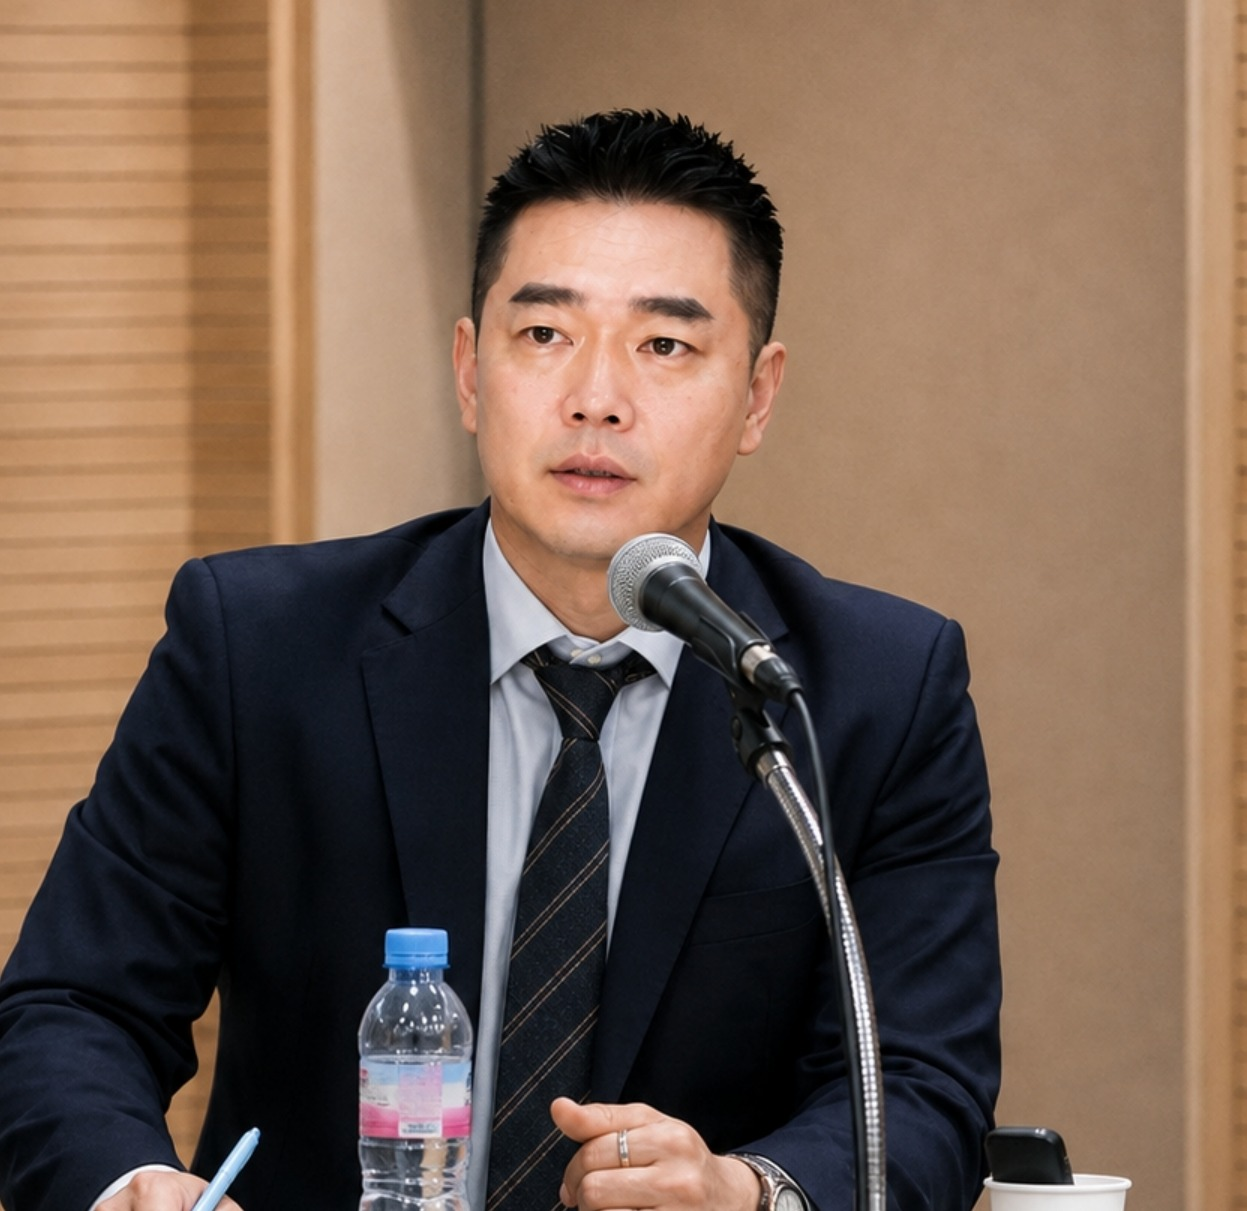
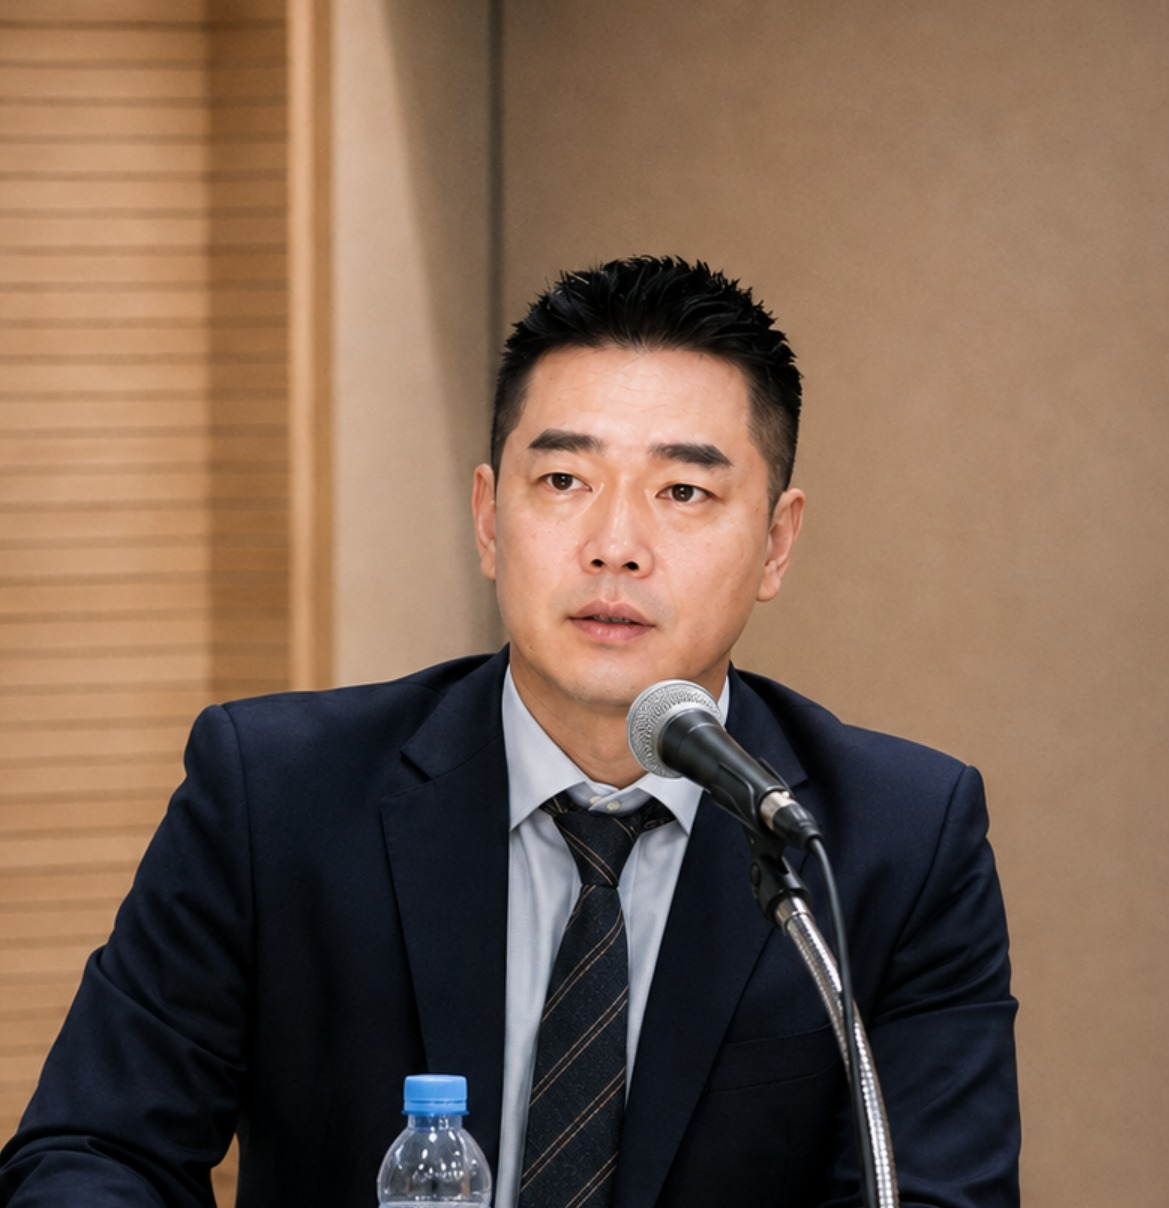
fix(gallery,notice): 공덕현대 총회 사회자 사진 재교체 (대장 지시)
jpg/notice/gongdeok_hyundai_speaker_lcw.jpg를 새 사진으로 재교체하고
공지사항·갤러리 양쪽 img src 캐시버전 갱신(?v=20260902b→c).

Claude-Session: https://claude.ai/code/session_01E8hyXFhcEuGLayqtAzFcqf

diff --git a/redevelopment/assets/data/mock-data.js b/redevelopment/assets/data/mock-data.js
@@ -236,7 +236,7 @@ const MOCK = {
       content:'<div class="nt-lead">ORDER WIN · 인천 만수주공아파트 재건축사업</div><p>㈜빛세움이 인천 만수주공아파트 재건축사업의 정비사업전문관리업자로 선정되었습니다. <strong>10,446세대 초대형 재건축 프로젝트</strong>에 빛세움이 함께합니다.</p><div class="nt-stats"><div class="nt-stat-card"><div class="nt-stat-num">10,446<span>세대</span></div><div class="nt-stat-label">계획 세대수(부대·복리시설 포함)</div></div><div class="nt-stat-card"><div class="nt-stat-num">41.9<span>만㎡</span></div><div class="nt-stat-label">인천 남동구 만수동 사업대상 면적</div></div><div class="nt-stat-card"><div class="nt-stat-num">3,259<span>명</span></div><div class="nt-stat-label">1.31 주민총회 참여 토지등소유자</div></div></div><p>만수주공아파트 재건축 추진위원회는 <strong>2026년 1월 31일</strong> 인천 남동체육관에서 주민총회를 개최하고, 정비사업의 본격적인 추진을 위한 협력업체 선정 등 주요 안건을 의결했습니다. 이날 총회에는 토지등소유자 6,264명 가운데 서면결의 3,082명, 현장 참석 177명 등 총 3,259명이 참여했습니다.</p><p>총회에서는 정비사업전문관리업자로 <strong>㈜빛세움</strong>이 선정됐으며, 설계 분야는 나우동인건축사사무소·한길종합건축사사무소엔지니어링 컨소시엄, 추정분담금 산정 및 검증 업무는 제일감정평가법인이 각각 선정됐습니다.</p><p>만수주공아파트 재건축사업은 인천광역시 남동구 만수동 13번지 일원 약 419,320㎡를 대상으로 추진되는 대규모 정비사업으로, 계획상 아파트 약 10,446세대와 부대·복리시설이 들어서는 초대형 프로젝트입니다.</p><div class="nt-divider"></div><p>빛세움은 그동안 축적해 온 정비사업 전문관리 및 PM 실무 경험을 바탕으로 사업 초기부터 조합설립, 각종 인허가 및 협력업체 관리 등 사업 전 과정이 안정적이고 신속하게 추진될 수 있도록 <strong>전문 역량을 집중</strong>하겠습니다.</p><p>대한민국을 대표하는 초대형 재건축사업의 새로운 출발, 빛세움이 만수주공 토지등소유자 여러분과 함께하겠습니다.</p><div class="nt-divider"></div><div class="nt-source-title"><i class="fa-solid fa-camera"></i> 현장 스케치</div><div class="nt-source-gallery"><div class="nt-source-card"><img src="../jpg/notice/mansu_juminchonghoe_hall.jpg" alt="2026년 1월 31일 인천 남동체육관에서 열린 만수주공아파트 재건축 주민총회 현장"><div class="nt-source-cap">2026.01.31 인천 남동체육관 주민총회 현장</div></div></div><div class="nt-source-title"><i class="fa-regular fa-newspaper"></i> 원문 기사 보기</div><div class="nt-source-gallery"><a class="nt-source-card" href="https://www.constimes.co.kr/news/articleView.html?idxno=247074" target="_blank" rel="noopener noreferrer"><img src="../jpg/notice/news_constimes_mansu_fullpage.png" alt="인천 만수주공 재건축, \'빛세움\'이 정비사업 관리 기사 전문"><div class="nt-source-cap">건설타임즈 「인천 만수주공 재건축, \'빛세움\'이 정비사업 관리」 (김정현 기자, 2024.05.08) <i class="fa-solid fa-arrow-up-right-from-square" style="font-size:10px;margin-left:2px;"></i></div></a></div>' },
     { id:'nt20260902a', title:'[기타소식][현장사진] 이주비 규제 위기 속 긴급자금 조달…공덕현대, 2개월 만에 이주 완료', date:'2026-09-02', category:'기타소식',
       excerpt:'강화된 이주비 대출 규제 속 긴급 자금조달로 조합원 이주 2개월 만에 완료…현재 철거공사 진행 중',
-      content:'<div class="nt-lead">NOTICE · 공덕현대아파트 소규모재건축정비사업조합</div><p>공덕현대아파트 소규모재건축정비사업조합은 정부의 <strong>강화된 이주비 대출 규제</strong>로 조합원들의 이주가 어려워질 것으로 예상됨에 따라, 긴급 이주비 조달을 주요 목적으로 하는 2026년 정기총회를 개최했습니다.</p><div class="nt-stats"><div class="nt-stat-card"><div class="nt-stat-num">2개월</div><div class="nt-stat-label">이주 개시~완료 소요기간</div></div><div class="nt-stat-card"><div class="nt-stat-num">04.10</div><div class="nt-stat-label">2026년 정기총회 개최일</div></div><div class="nt-stat-card"><div class="nt-stat-num">철거공사</div><div class="nt-stat-label">현재 진행 단계</div></div></div><p>총회에서는 <strong>긴급 이주비 조달과 시공사 도급계약 변경</strong> 등 사업 추진에 필요한 주요 안건을 의결했습니다. 이후 금융기관 및 시공사와의 긴밀한 협의를 통해 조합원에게 필요한 이주자금을 신속히 확보함으로써, 규제에 따른 사업 지연과 조합원의 경제적 부담을 최소화했습니다.</p><p>그 결과 공덕현대는 어려운 금융환경에도 불구하고 <strong>이주 개시 후 약 2개월 만에 조합원 이주를 성공적으로 완료</strong>했습니다. 현재는 철거공사를 진행하며 착공을 위한 후속 절차를 차질 없이 추진하고 있습니다.</p><div class="nt-divider"></div><p>㈜빛세움은 제도 변화와 금융규제에 선제적으로 대응하고, 사업장별 여건에 맞는 현실적인 자금조달 방안을 마련하여 공덕현대 소규모재건축사업이 안정적으로 추진될 수 있도록 끝까지 함께하겠습니다.</p><div class="nt-divider"></div><div class="nt-source-title"><i class="fa-solid fa-camera"></i> 현장 스케치</div><div class="nt-source-gallery"><div class="nt-source-card"><img src="../jpg/notice/gongdeok_hyundai_speaker_lcw.jpg?v=20260902b" alt="2026년 공덕현대아파트 정기총회 사회자 ㈜빛세움 직원"><div class="nt-source-cap">2026.04.10 정기총회 현장 — ㈜빛세움 직원(사회자)</div></div><div class="nt-source-card"><img src="../jpg/notice/gongdeok_hyundai_jeonggichonghoe.jpg" alt="2026년 공덕현대아파트 정기총회 현장 — 시공사 도급계약 변경 등을 위한 정기총회"><div class="nt-source-cap">2026.04.10 정기총회 전경</div></div><div class="nt-source-card"><img src="../jpg/notice/gongdeok_hyundai_lobby_wreath.jpg" alt="정기총회장 로비 — 시공사 임원 축하 화환과 접수 데스크"><div class="nt-source-cap">2026.04.10 정기총회장 로비</div></div><div class="nt-source-card"><img src="../jpg/notice/gongdeok_hyundai_stage_audience.jpg" alt="정기총회 무대와 참석 조합원들"><div class="nt-source-cap">2026.04.10 정기총회 진행 현장</div></div></div>' },
+      content:'<div class="nt-lead">NOTICE · 공덕현대아파트 소규모재건축정비사업조합</div><p>공덕현대아파트 소규모재건축정비사업조합은 정부의 <strong>강화된 이주비 대출 규제</strong>로 조합원들의 이주가 어려워질 것으로 예상됨에 따라, 긴급 이주비 조달을 주요 목적으로 하는 2026년 정기총회를 개최했습니다.</p><div class="nt-stats"><div class="nt-stat-card"><div class="nt-stat-num">2개월</div><div class="nt-stat-label">이주 개시~완료 소요기간</div></div><div class="nt-stat-card"><div class="nt-stat-num">04.10</div><div class="nt-stat-label">2026년 정기총회 개최일</div></div><div class="nt-stat-card"><div class="nt-stat-num">철거공사</div><div class="nt-stat-label">현재 진행 단계</div></div></div><p>총회에서는 <strong>긴급 이주비 조달과 시공사 도급계약 변경</strong> 등 사업 추진에 필요한 주요 안건을 의결했습니다. 이후 금융기관 및 시공사와의 긴밀한 협의를 통해 조합원에게 필요한 이주자금을 신속히 확보함으로써, 규제에 따른 사업 지연과 조합원의 경제적 부담을 최소화했습니다.</p><p>그 결과 공덕현대는 어려운 금융환경에도 불구하고 <strong>이주 개시 후 약 2개월 만에 조합원 이주를 성공적으로 완료</strong>했습니다. 현재는 철거공사를 진행하며 착공을 위한 후속 절차를 차질 없이 추진하고 있습니다.</p><div class="nt-divider"></div><p>㈜빛세움은 제도 변화와 금융규제에 선제적으로 대응하고, 사업장별 여건에 맞는 현실적인 자금조달 방안을 마련하여 공덕현대 소규모재건축사업이 안정적으로 추진될 수 있도록 끝까지 함께하겠습니다.</p><div class="nt-divider"></div><div class="nt-source-title"><i class="fa-solid fa-camera"></i> 현장 스케치</div><div class="nt-source-gallery"><div class="nt-source-card"><img src="../jpg/notice/gongdeok_hyundai_speaker_lcw.jpg?v=20260902c" alt="2026년 공덕현대아파트 정기총회 사회자 ㈜빛세움 직원"><div class="nt-source-cap">2026.04.10 정기총회 현장 — ㈜빛세움 직원(사회자)</div></div><div class="nt-source-card"><img src="../jpg/notice/gongdeok_hyundai_jeonggichonghoe.jpg" alt="2026년 공덕현대아파트 정기총회 현장 — 시공사 도급계약 변경 등을 위한 정기총회"><div class="nt-source-cap">2026.04.10 정기총회 전경</div></div><div class="nt-source-card"><img src="../jpg/notice/gongdeok_hyundai_lobby_wreath.jpg" alt="정기총회장 로비 — 시공사 임원 축하 화환과 접수 데스크"><div class="nt-source-cap">2026.04.10 정기총회장 로비</div></div><div class="nt-source-card"><img src="../jpg/notice/gongdeok_hyundai_stage_audience.jpg" alt="정기총회 무대와 참석 조합원들"><div class="nt-source-cap">2026.04.10 정기총회 진행 현장</div></div></div>' },
   ],
 
   /* ──────────────────────────── 일정 ──────────────────────────── */
@@ -1113,7 +1113,7 @@ const MOCK = {
       excerpt:'강화된 이주비 대출 규제 속 긴급 자금조달로 조합원 이주 2개월 만에 완료 — 공덕현대아파트 정기총회 현장',
       content:'<div class="nt-lead">GENERAL MEETING · 공덕현대아파트 소규모재건축정비사업조합</div><p>공덕현대아파트 소규모재건축정비사업조합은 정부의 <strong>강화된 이주비 대출 규제</strong>로 조합원들의 이주가 어려워질 것으로 예상됨에 따라, 긴급 이주비 조달을 주요 목적으로 하는 2026년 정기총회를 개최했습니다.</p><div class="nt-stats"><div class="nt-stat-card"><div class="nt-stat-num">2개월</div><div class="nt-stat-label">이주 개시~완료 소요기간</div></div><div class="nt-stat-card"><div class="nt-stat-num">04.10</div><div class="nt-stat-label">2026년 정기총회 개최일</div></div><div class="nt-stat-card"><div class="nt-stat-num">철거공사</div><div class="nt-stat-label">현재 진행 단계</div></div></div><p>총회에서는 <strong>긴급 이주비 조달과 시공사 도급계약 변경</strong> 등 사업 추진에 필요한 주요 안건을 의결했습니다. 이후 금융기관 및 시공사와의 긴밀한 협의를 통해 조합원에게 필요한 이주자금을 신속히 확보함으로써, 규제에 따른 사업 지연과 조합원의 경제적 부담을 최소화했습니다.</p><p>그 결과 공덕현대는 어려운 금융환경에도 불구하고 <strong>이주 개시 후 약 2개월 만에 조합원 이주를 성공적으로 완료</strong>했습니다. 현재는 철거공사를 진행하며 착공을 위한 후속 절차를 차질 없이 추진하고 있습니다.</p><div class="nt-divider"></div><p>㈜빛세움은 제도 변화와 금융규제에 선제적으로 대응하고, 사업장별 여건에 맞는 현실적인 자금조달 방안을 마련하여 공덕현대 소규모재건축사업이 안정적으로 추진될 수 있도록 끝까지 함께하겠습니다.</p>',
       images:[
-        { src:'../jpg/notice/gongdeok_hyundai_speaker_lcw.jpg?v=20260902b', alt:'2026년 공덕현대아파트 정기총회 사회자 ㈜빛세움 직원' },
+        { src:'../jpg/notice/gongdeok_hyundai_speaker_lcw.jpg?v=20260902c', alt:'2026년 공덕현대아파트 정기총회 사회자 ㈜빛세움 직원' },
         { src:'../jpg/notice/gongdeok_hyundai_jeonggichonghoe.jpg', alt:'2026년 공덕현대아파트 정기총회 현장 — 시공사 도급계약 변경 등을 위한 정기총회' },
         { src:'../jpg/notice/gongdeok_hyundai_lobby_wreath.jpg', alt:'정기총회장 로비 — 시공사 임원 축하 화환과 접수 데스크' },
         { src:'../jpg/notice/gongdeok_hyundai_stage_audience.jpg', alt:'정기총회 무대와 참석 조합원들' }

diff --git a/redevelopment/admin/send-report.html b/redevelopment/admin/send-report.html
@@ -27,7 +27,7 @@ h1{font-size:20px;font-weight:800;color:#0A0F1C;margin-bottom:8px}
     <button class="btn" id="sendBtn" onclick="sendReport()">텔레그램 발송</button>
     <div class="result" id="result"></div>
 </div>
-<script src="../assets/data/mock-data.js?v=20260902l"></script>
+<script src="../assets/data/mock-data.js?v=20260902m"></script>
 <script src="../assets/js/data-service.js?v=20260418q"></script>
 <script>
 if (!DataService.isAdminLoggedIn()) { location.href = 'login.html'; }

diff --git a/redevelopment/pages/feasibility-check.html b/redevelopment/pages/feasibility-check.html
@@ -93,7 +93,7 @@
     <!-- (이전) Vercel /sotong 리버스 프록시 + /api/juso 방식은 정부서버 IP-바인딩 세션 문제로 폐기, 검증된 run_local 터널로 전환 -->
 </div></div>
 <div id="site-footer"></div>
-<script src="../assets/data/mock-data.js?v=20260902l"></script>
+<script src="../assets/data/mock-data.js?v=20260902m"></script>
 <script src="../assets/js/data-service.js?v=20260418q"></script>
 <script src="../assets/js/common.js?v=20260902e"></script>
 </body>

diff --git a/redevelopment/pages/feasibility.html b/redevelopment/pages/feasibility.html
@@ -308,7 +308,7 @@
 <div id="modalContainer"></div>
 
 <div id="site-footer"></div>
-<script src="../assets/data/mock-data.js?v=20260902l"></script>
+<script src="../assets/data/mock-data.js?v=20260902m"></script>
 <script src="../assets/data/areas-data.js?v=20260411"></script>
 <script src="../assets/js/data-service.js?v=20260418q"></script>
 <script src="../assets/js/common.js?v=20260902e"></script>

diff --git a/redevelopment/pages/calculator.html b/redevelopment/pages/calculator.html
@@ -138,7 +138,7 @@
 </div>
 
 <div id="site-footer"></div>
-<script src="../assets/data/mock-data.js?v=20260902l"></script>
+<script src="../assets/data/mock-data.js?v=20260902m"></script>
 <script src="../assets/data/areas-data.js?v=20260411"></script>
 <script src="../assets/js/data-service.js?v=20260418q"></script>
 <script src="../assets/js/common.js?v=20260902e"></script>

diff --git a/redevelopment/pages/portfolio.html b/redevelopment/pages/portfolio.html
@@ -328,7 +328,7 @@
 </div>
 
 <div id="site-footer"></div>
-<script src="../assets/data/mock-data.js?v=20260902l"></script>
+<script src="../assets/data/mock-data.js?v=20260902m"></script>
 <script src="../assets/data/areas-data.js?v=20260411"></script>
 <script src="../assets/js/data-service.js?v=20260418q"></script>
 <script src="../assets/js/common.js?v=20260902e"></script>

diff --git a/redevelopment/admin/areas.html b/redevelopment/admin/areas.html
@@ -191,7 +191,7 @@
 </div>
 
 <div class="toast-container" id="toastContainer"></div>
-<script src="../assets/data/mock-data.js?v=20260902l"></script>
+<script src="../assets/data/mock-data.js?v=20260902m"></script>
 <script src="../assets/data/areas-data.js?v=20260411"></script>
 <script src="../assets/js/data-service.js?v=20260418q"></script>
 <script>

diff --git a/redevelopment/admin/listings.html b/redevelopment/admin/listings.html
@@ -180,7 +180,7 @@
 </div>
 
 <div class="toast-container" id="toastContainer"></div>
-<script src="../assets/data/mock-data.js?v=20260902l"></script>
+<script src="../assets/data/mock-data.js?v=20260902m"></script>
 <script src="../assets/data/areas-data.js?v=20260411"></script>
 <script src="../assets/js/data-service.js?v=20260418q"></script>
 <script>

diff --git a/redevelopment/pages/register.html b/redevelopment/pages/register.html
@@ -209,7 +209,7 @@ function searchAddress() {
     }).open();
 }
 </script>
-<script src="../assets/data/mock-data.js?v=20260902l"></script>
+<script src="../assets/data/mock-data.js?v=20260902m"></script>
 <script src="../assets/js/data-service.js?v=20260418q"></script>
 <script src="../assets/js/common.js?v=20260902e"></script>
 <script>

diff --git a/redevelopment/pages/community.html b/redevelopment/pages/community.html
@@ -234,7 +234,7 @@
 </div></div>
 
 <div id="site-footer"></div>
-<script src="../assets/data/mock-data.js?v=20260902l"></script>
+<script src="../assets/data/mock-data.js?v=20260902m"></script>
 <script src="../assets/js/data-service.js?v=20260418q"></script>
 <script src="../assets/js/common.js?v=20260902e"></script>
 <script>

diff --git a/redevelopment/pages/contact.html b/redevelopment/pages/contact.html
@@ -371,7 +371,7 @@
 </div></div>
 
 <div id="site-footer"></div>
-<script src="../assets/data/mock-data.js?v=20260902l"></script>
+<script src="../assets/data/mock-data.js?v=20260902m"></script>
 <script src="../assets/js/data-service.js?v=20260418q"></script>
 <script src="../assets/js/common.js?v=20260902e"></script>
 <script>

diff --git a/redevelopment/pages/library.html b/redevelopment/pages/library.html
@@ -315,7 +315,7 @@
 </div></div>
 
 <div id="site-footer"></div>
-<script src="../assets/data/mock-data.js?v=20260902l"></script>
+<script src="../assets/data/mock-data.js?v=20260902m"></script>
 <script src="../assets/js/data-service.js?v=20260418k"></script>
 <script src="../assets/js/common.js?v=20260902e"></script>
 <script>
